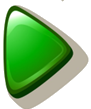
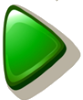
start nappi kuntoon

diff --git a/main_new.py b/main_new.py
@@ -12,6 +12,7 @@ portti = pygame.image.load("gate.png")
 dragon = pygame.image.load("dragon.png")
 arrow_left = pygame.image.load("arrow_left.png")
 arrow_right = pygame.image.load("arrow_right.png")
+start_button = pygame.image.load("start_button.png")
 sx, sy = naytto.get_size()
 
 y = sy - princess.get_height()
@@ -56,7 +57,7 @@ class Peli:
         self.black = (0, 0, 0)
 
         pygame.display.set_caption('Väistä hirviötä')
-        self.font = pygame.font.Font('bradley_hand_itc_tt_bold.ttf', 28)
+        self.font = pygame.font.Font('bradley_hand_itc_tt_bold.ttf', 26)
         self.font_a = pygame.font.Font('bradley_hand_itc_tt_bold.ttf', 24)
         self.font_b = pygame.font.Font('bradley_hand_itc_tt_bold.ttf', 18)
         self.font_c = pygame.font.Font('bradley_hand_itc_tt_bold.ttf', 12)
@@ -72,8 +73,7 @@ class Peli:
         self.piirra_tausta()
         self.piirra_portti()
         self.aloitusikkuna()
-        #txtsurf_a = self.font.render("Aloita peli = välilyönti", True, self.dark_grey)
-        #naytto.blit(txtsurf_a,(160,140))
+        self.aloitusnapin_piirto()
         pygame.display.flip()
 
 
@@ -86,22 +86,31 @@ class Peli:
 
     def silmukka(self):
         game_running = True
-
+        napin_alue = pygame.Rect(360, 230, start_button.get_width(), start_button.get_height())
         while game_running:
             for event in pygame.event.get():
                 if event.type == pygame.QUIT:
                     game_running = False
-                elif event.type == pygame.KEYDOWN:
-                    if event.key == pygame.K_SPACE:
+                elif event.type == pygame.MOUSEBUTTONDOWN:
+                    hiiren_x, hiiren_y = pygame.mouse.get_pos()
+                    if napin_alue.collidepoint(hiiren_x, hiiren_y):
                         # Aloita peli
+                        self.princess_x = sx // 2 - princess.get_width()
+                        self.princess_y = sy - princess.get_height()
      
                         self.tutki_tapahtumat()
 
 
+
+    def aloitusnapin_piirto(self):
+        txtsurf_a = self.font.render("Aloita peli", True, self.dark_grey)
+        naytto.blit(txtsurf_a, (320, 200))
+        self.start_button = start_button
+        naytto.blit(self.start_button, (360, 230))
+
+
     def aloitusikkuna(self):
        
-
-
         # Piirrä läpinäkyvä ikkuna tekstin alle
         ikkunan_koko = (sx - 40, sy - 40)
         ikkuna = pygame.Surface(ikkunan_koko, pygame.SRCALPHA)
@@ -144,7 +153,9 @@ class Peli:
 
     def tutki_tapahtumat(self):
         while True:
+
             for tapahtuma in pygame.event.get():
+
                 if tapahtuma.type == pygame.KEYDOWN:
                     if tapahtuma.key == pygame.K_LEFT:
                         self.suunta = 2
